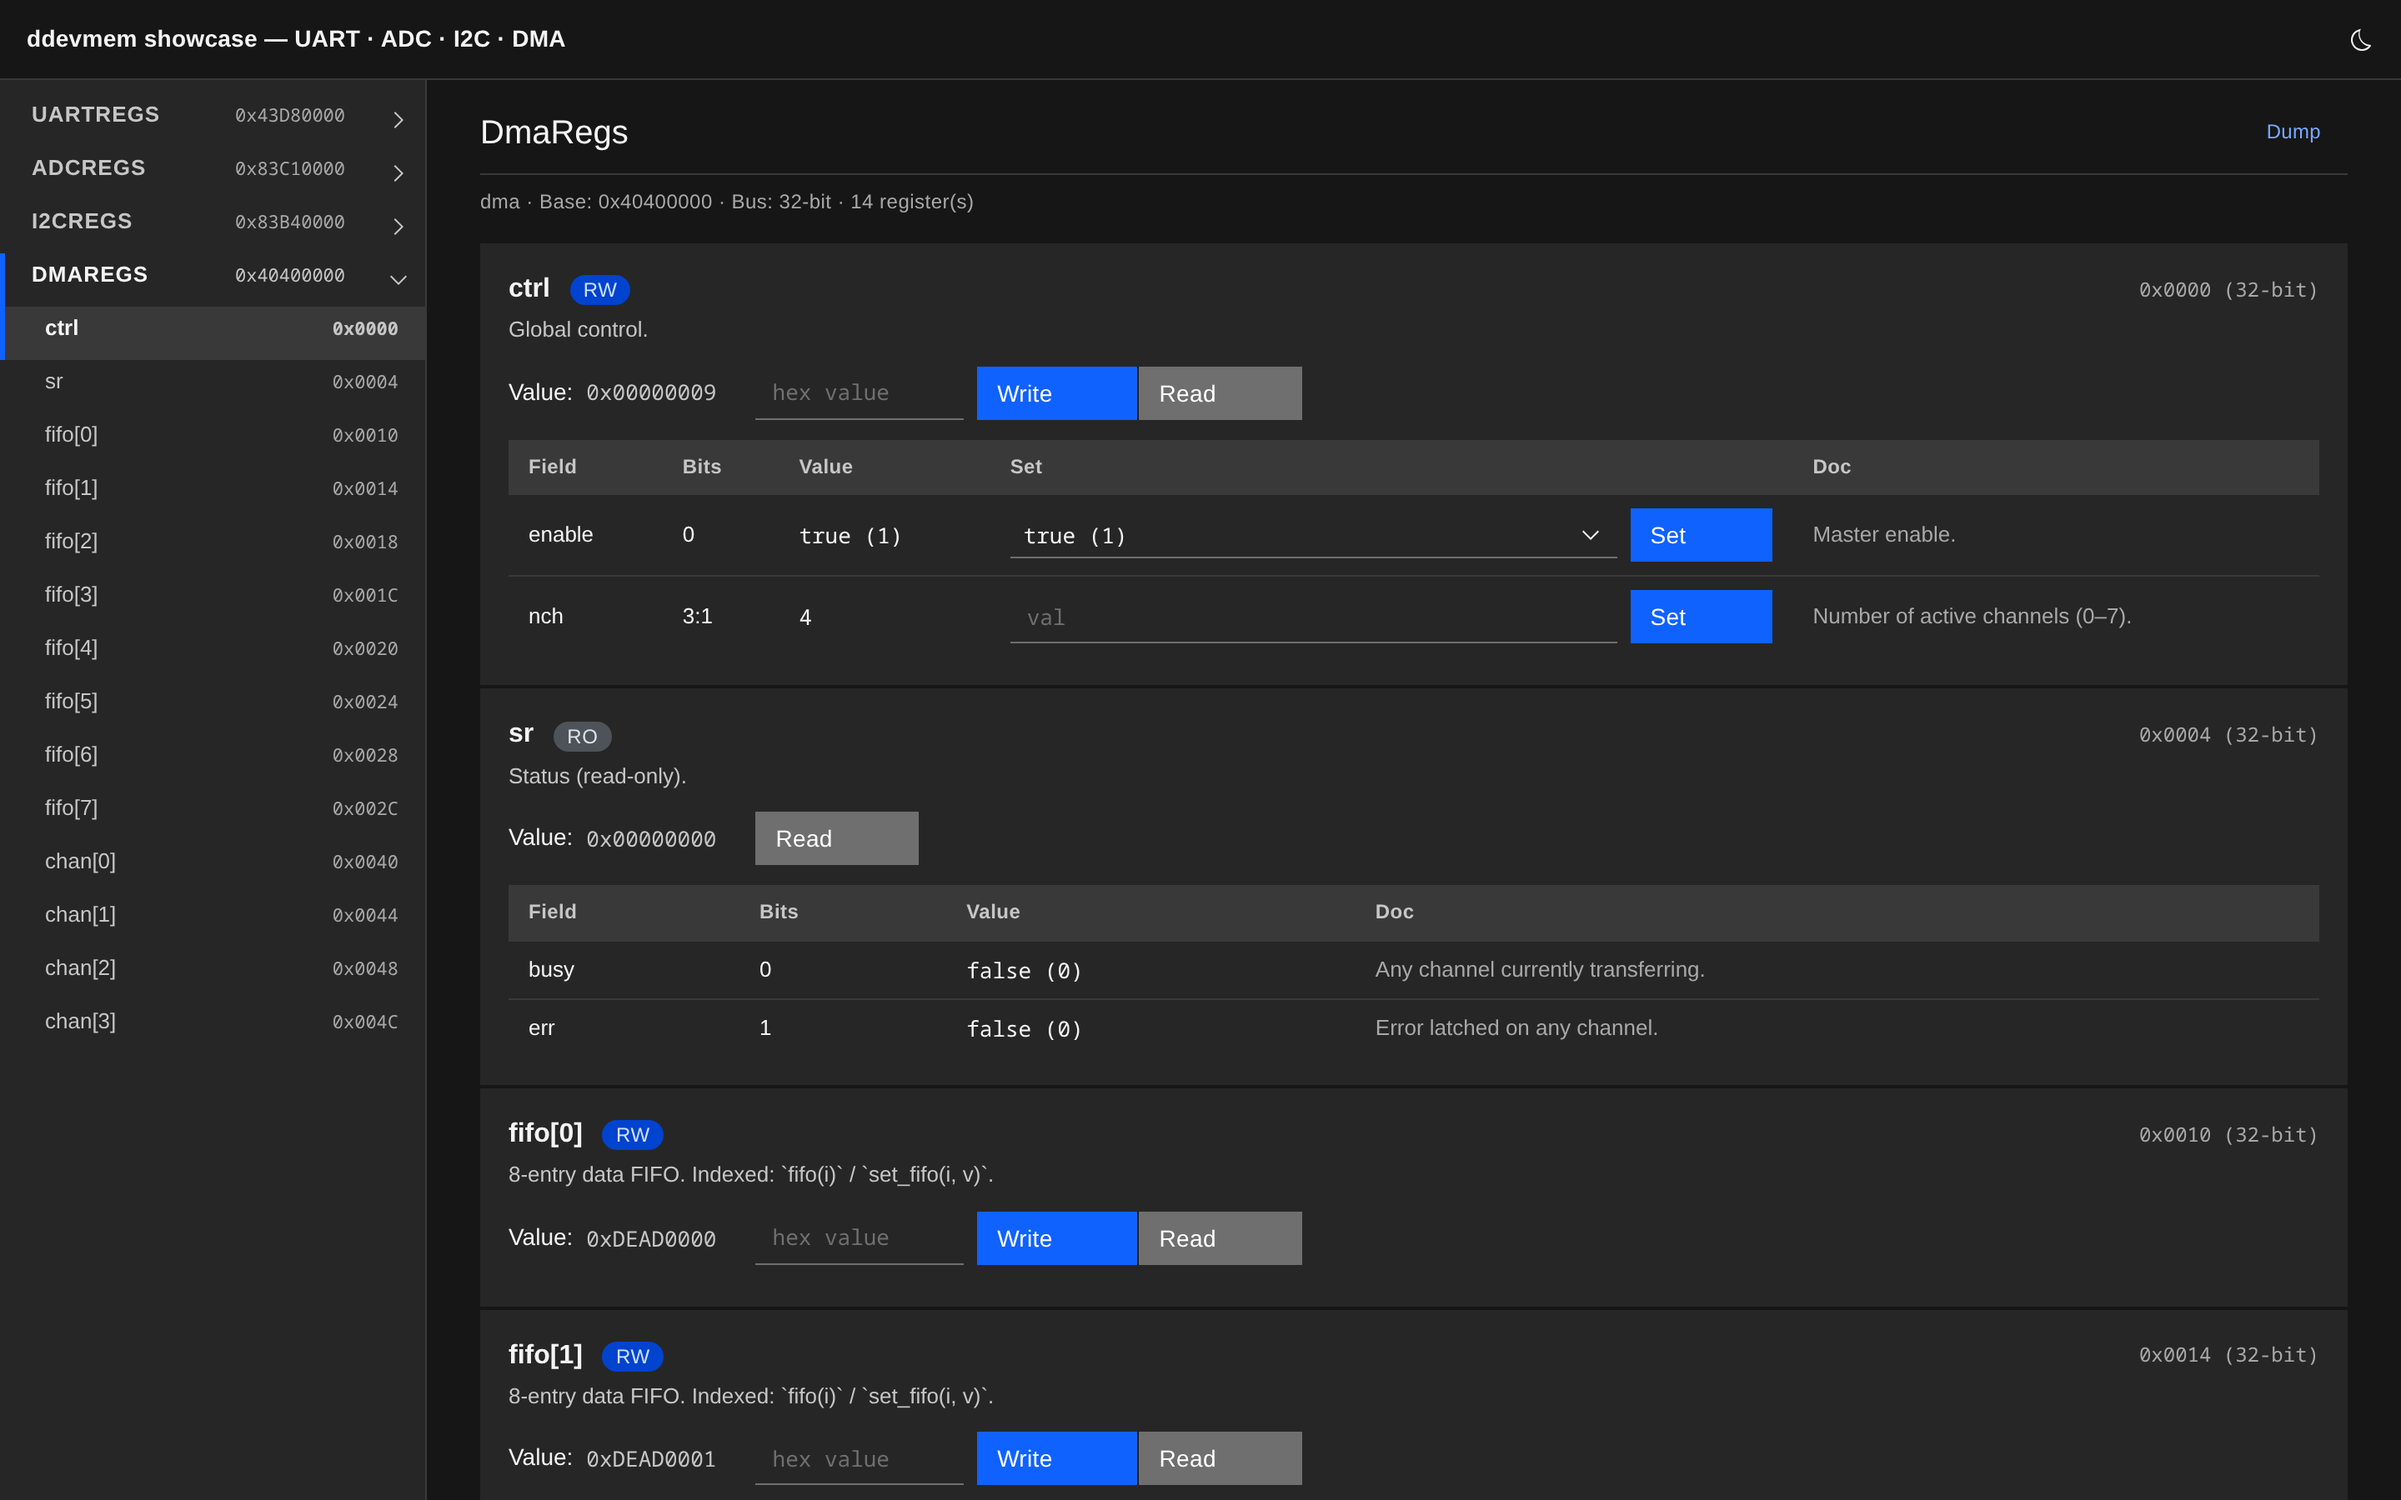
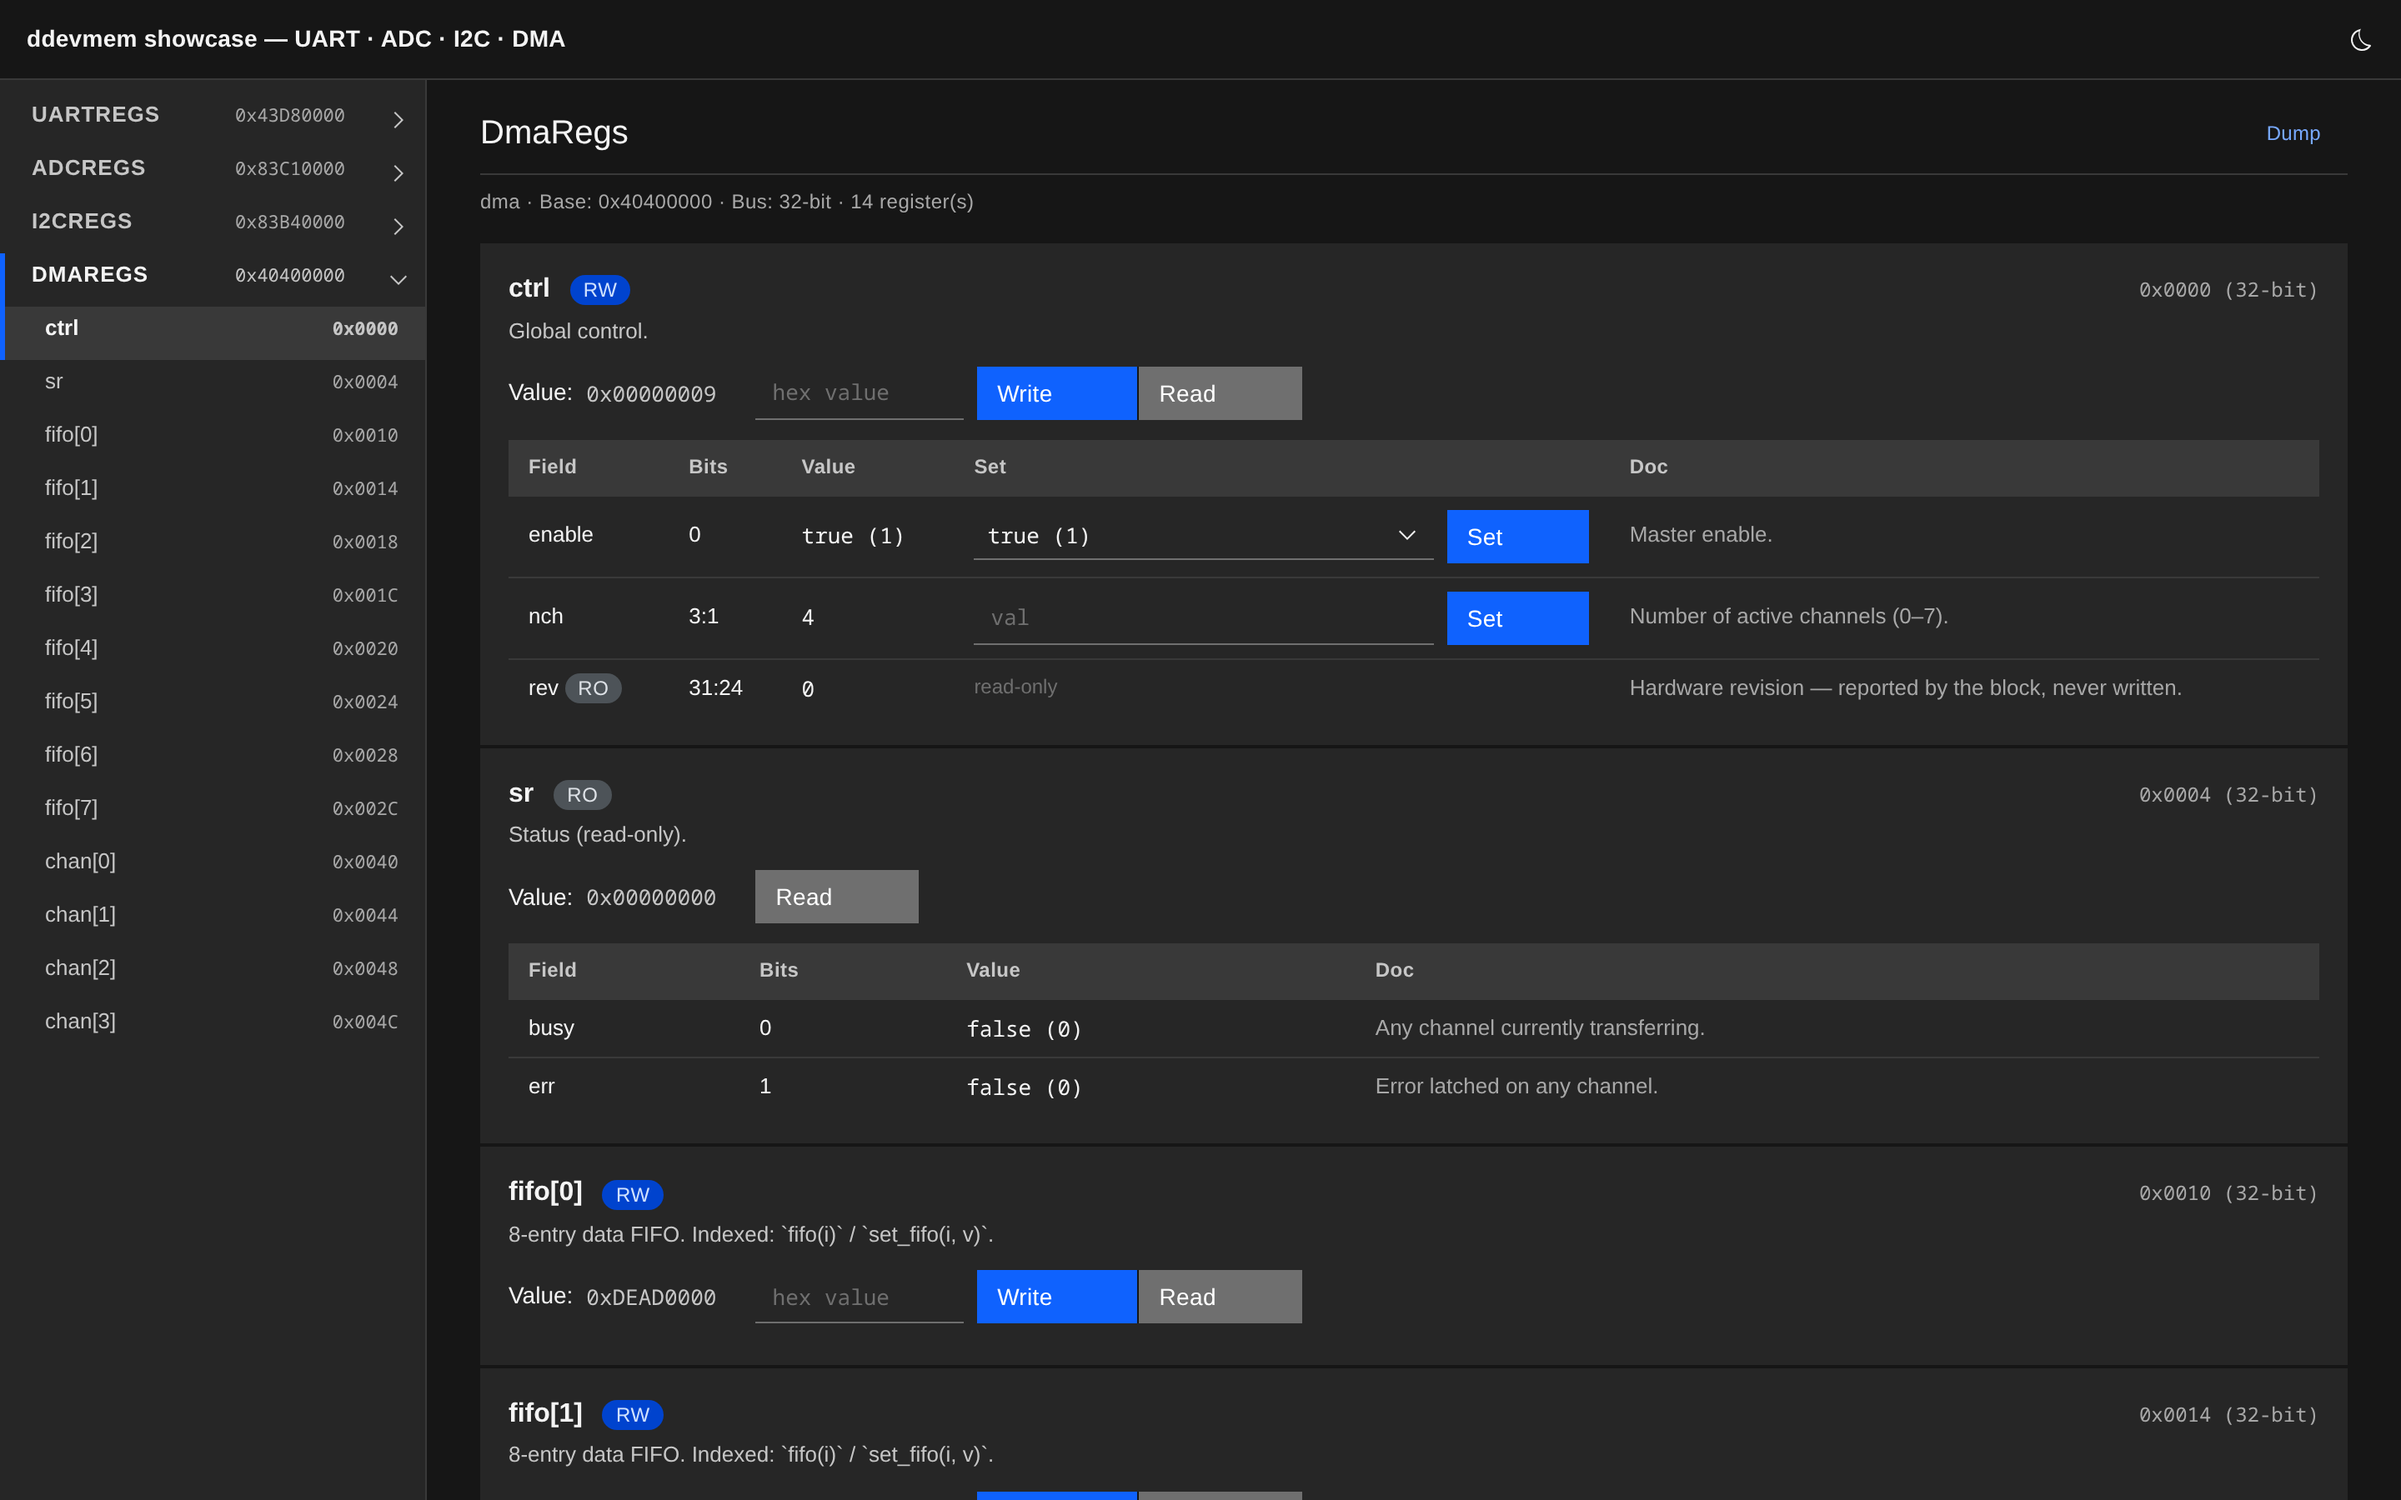
docs: reshoot screenshots and add the mixed-access register to the README
The showcase now declares its UART interrupt register the way the hardware
actually behaves — write-1-to-clear flags beside read-write configuration —
and the DMA control register carries a read-only revision field, so the
screenshots had to be retaken to match.

Adds a new pair showing what field-level access looks like in the UI: W1C
tags with Clear buttons, and a read-only field with no write control. Only
the array screenshots changed otherwise; the rest came out byte-identical
and are left alone.

diff --git a/docs/capture-screenshots.py b/docs/capture-screenshots.py
@@ -178,6 +178,19 @@ def main():
                 clip_selector="#reg-uart-0",
             )
 
+        # Field-level access: the UART interrupt register, where w1c flags
+        # share a word with read-write configuration.
+        for theme in ("dark", "light"):
+            shot(
+                chrome,
+                f"ui-mixed-{theme}.png",
+                1440,
+                760,
+                theme,
+                "document.getElementById('reg-uart-12')"
+                ".scrollIntoView({block: 'start'});",
+            )
+
         # Register arrays: fifo[0..8] / chan[0..4] expanded in the sidebar.
         for theme in ("dark", "light"):
             shot(

diff --git a/README.md b/README.md
@@ -424,6 +424,9 @@ pub fn clear_isr_parity(&mut self) {
 handing `f` the value as read and writing the result back verbatim. Reach for
 it when you want the unfiltered register, and mask the flags yourself.
 
+The [web UI](#web-ui) understands these kinds too, offering a *Clear* action
+for `w1c` flags instead of a value to set.
+
 ### Typed bitfields
 
 Adding `as <kind>` changes the getter's return type and the setter's argument
@@ -666,6 +669,18 @@ their variants, so nobody has to remember that parity 1 means even:
 <picture>
   <source media="(prefers-color-scheme: dark)" srcset="https://raw.githubusercontent.com/dodeca1337/ddevmem/master/docs/ui-register-dark.png">
   <img alt="A single register card: the UART control register with its six bitfields, each showing bit positions, decoded value, a set control and its documentation." src="https://raw.githubusercontent.com/dodeca1337/ddevmem/master/docs/ui-register-light.png">
+</picture>
+
+[Field-level access](#field-level-access) carries over: a `w1c` flag offers a
+*Clear* action rather than a value to set, a `ro` field offers no write control
+at all, and a `wo` field shows no value, because it cannot be read. The page's
+read-modify-write uses the same force-to-zero mask as the generated Rust, so
+adjusting a setting through the browser will not acknowledge a pending
+interrupt either.
+
+<picture>
+  <source media="(prefers-color-scheme: dark)" srcset="https://raw.githubusercontent.com/dodeca1337/ddevmem/master/docs/ui-mixed-dark.png">
+  <img alt="A mixed-access register in the web UI: four write-1-to-clear flags with Clear buttons and W1C tags, above ordinary read-write fields with value inputs." src="https://raw.githubusercontent.com/dodeca1337/ddevmem/master/docs/ui-mixed-light.png">
 </picture>
 
 Register arrays are expanded element by element, so `fifo: [u32; 8]` is
